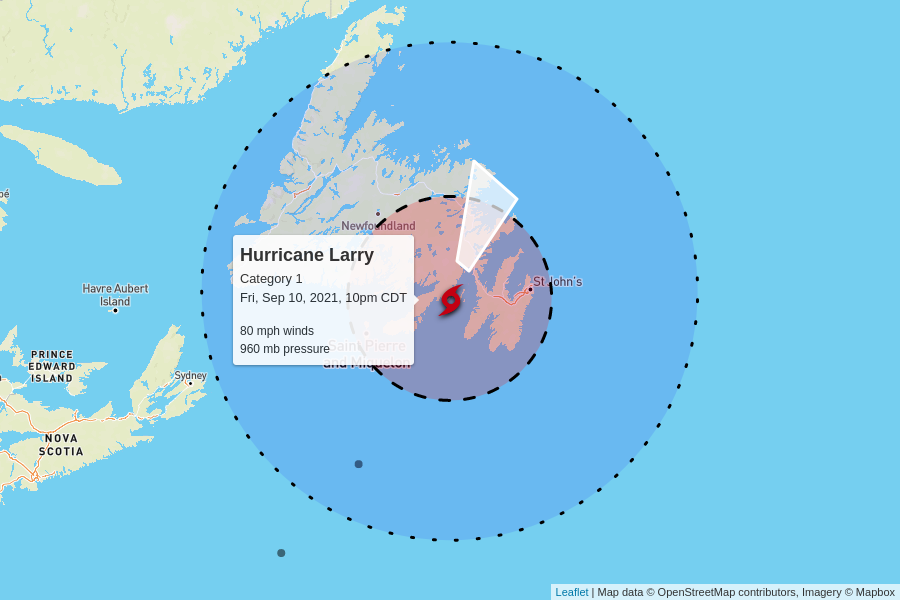
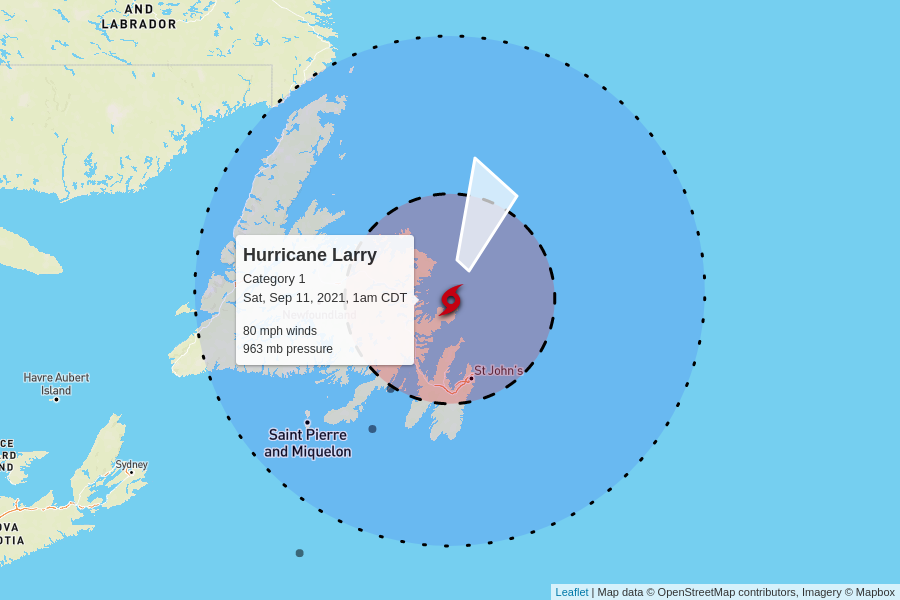
automatic update

diff --git a/docs/index.html b/docs/index.html
@@ -100,7 +100,7 @@
         <td colspan="6" class="storm category-1">
           <h2>
             Hurricane Larry - Category 1
-            <p class="updated">last updated <span data-time>2021-09-11T03:50:00.000Z</span></p>
+            <p class="updated">last updated <span data-time>2021-09-11T06:00:00.000Z</span></p>
           </h2>
         </td>
       </tr>
@@ -116,7 +116,7 @@
       <tr>
         <td class="spacer"></td>
         <td>80 mph</td>
-        <td>960 mb</td>
+        <td>963 mb</td>
         <td>
           47 mph to the north-northeast
           <br/>
